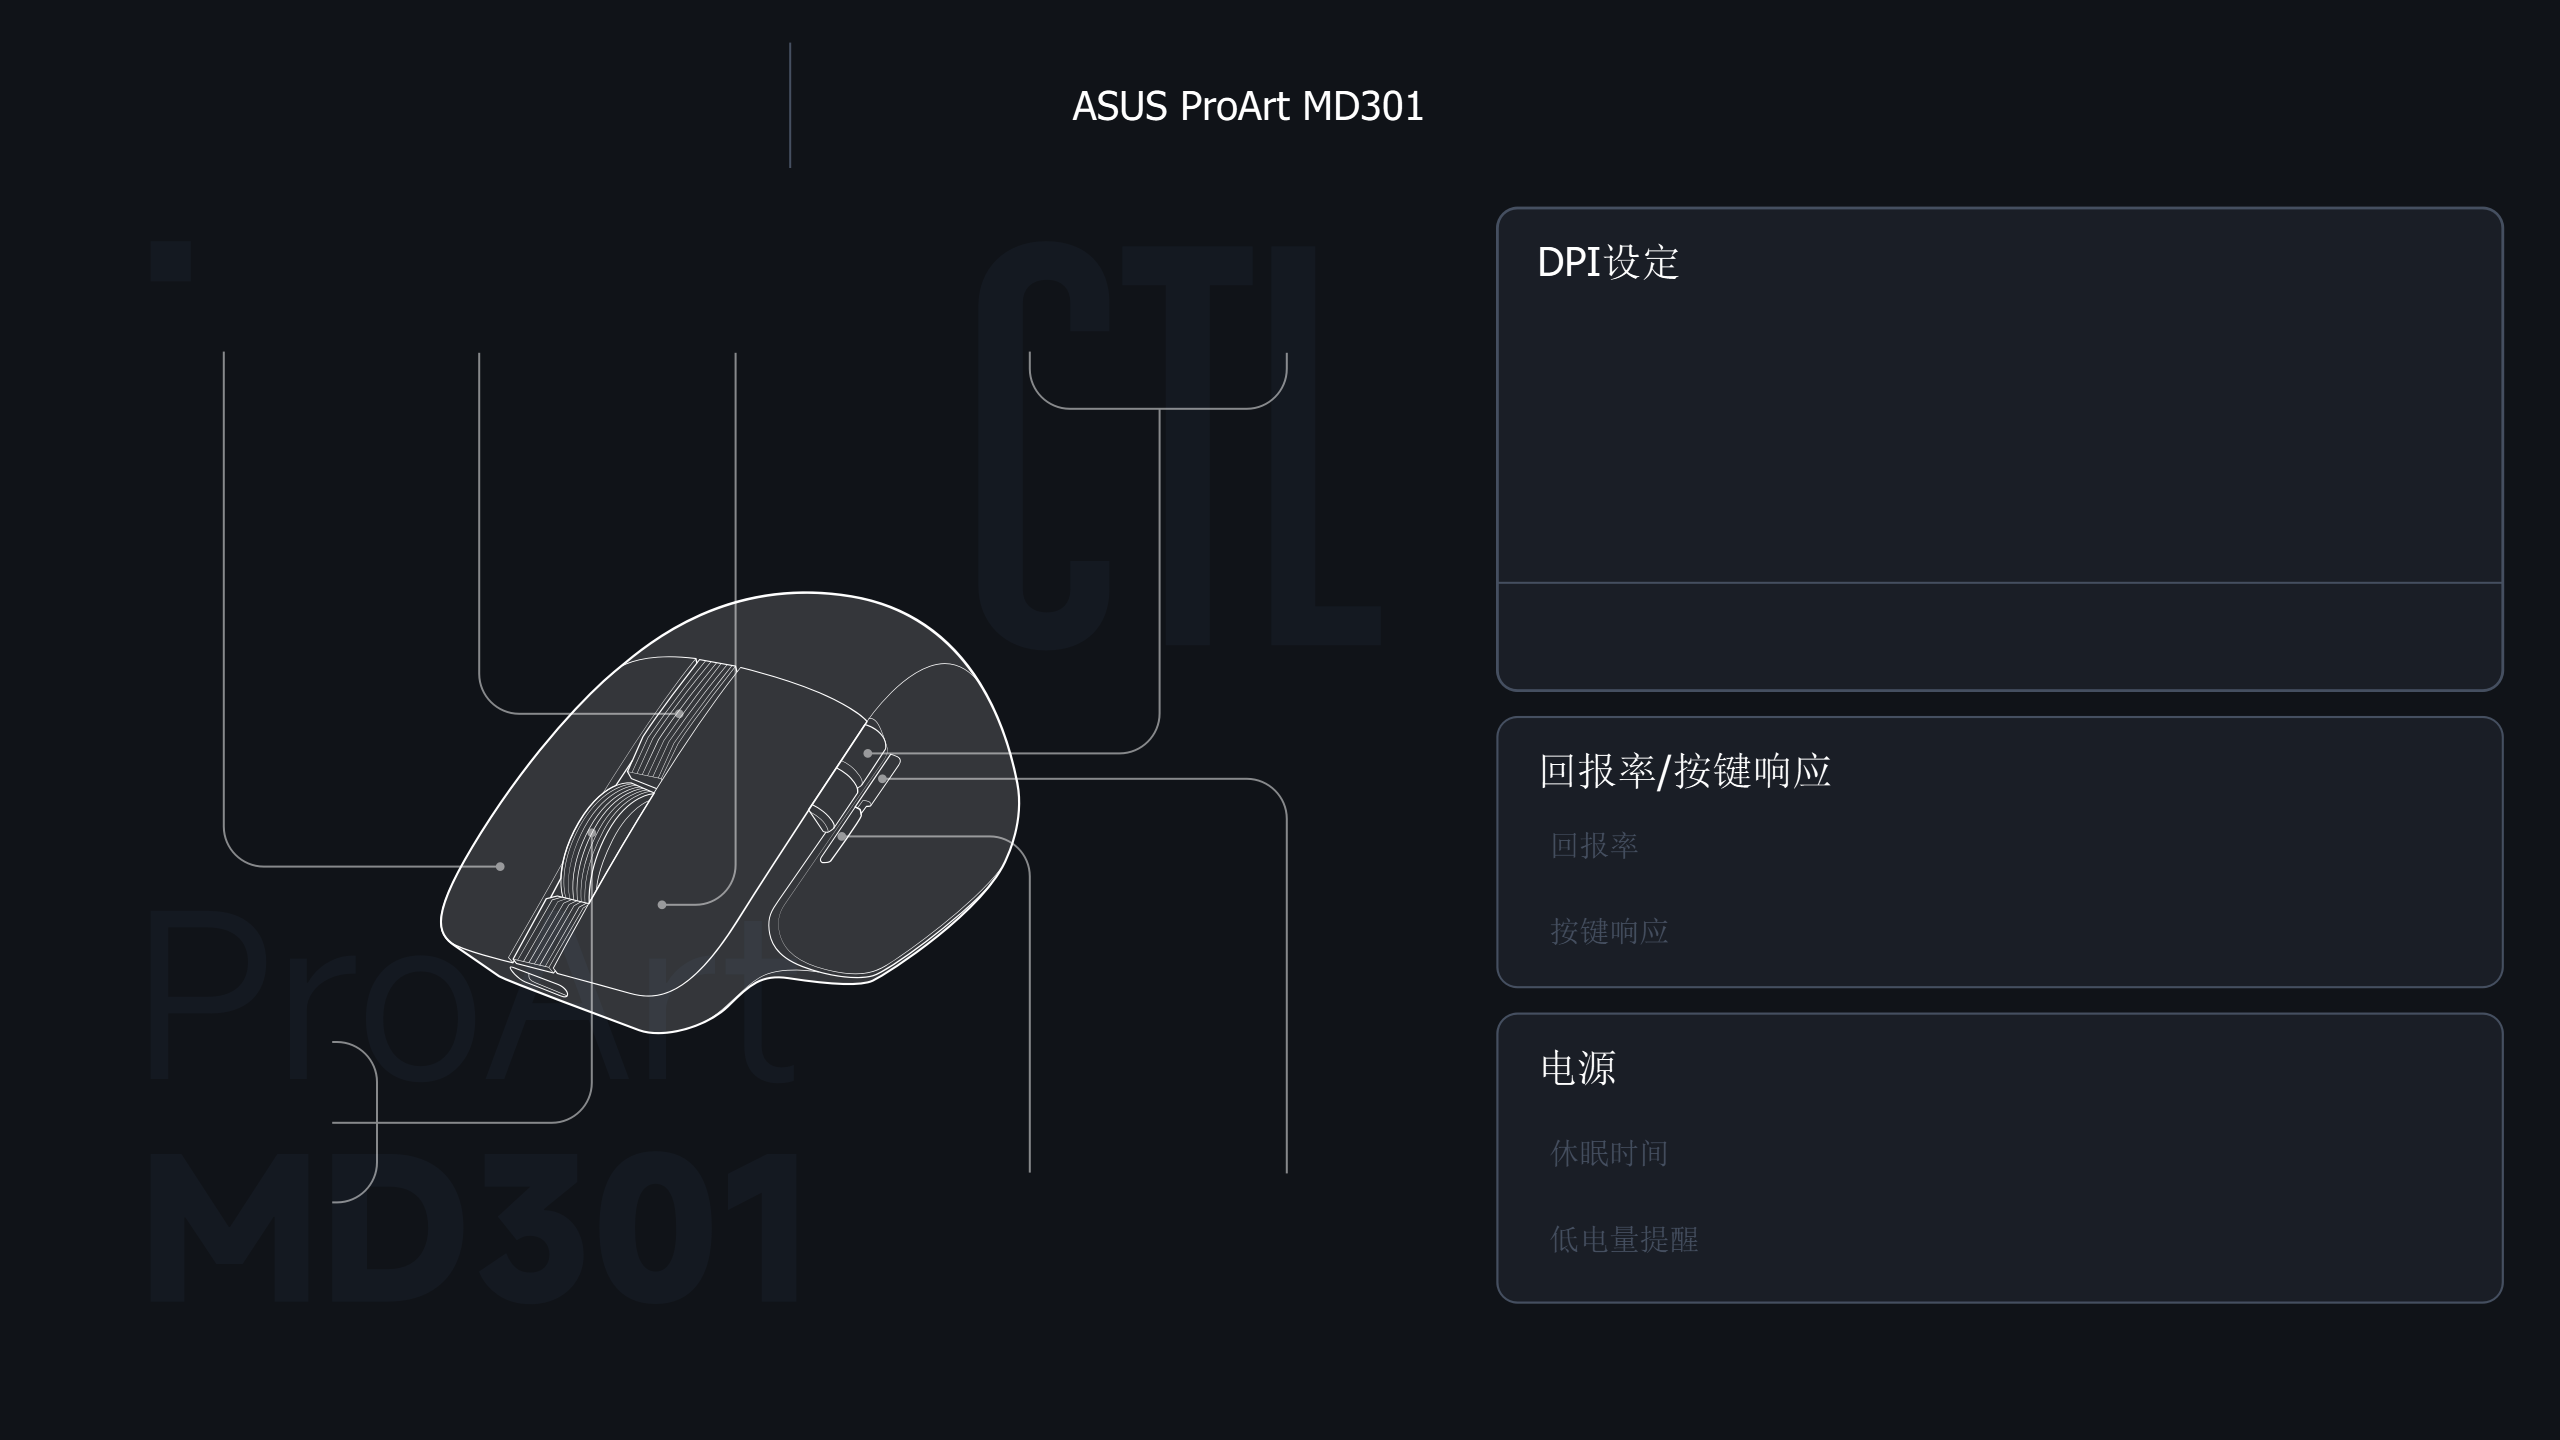
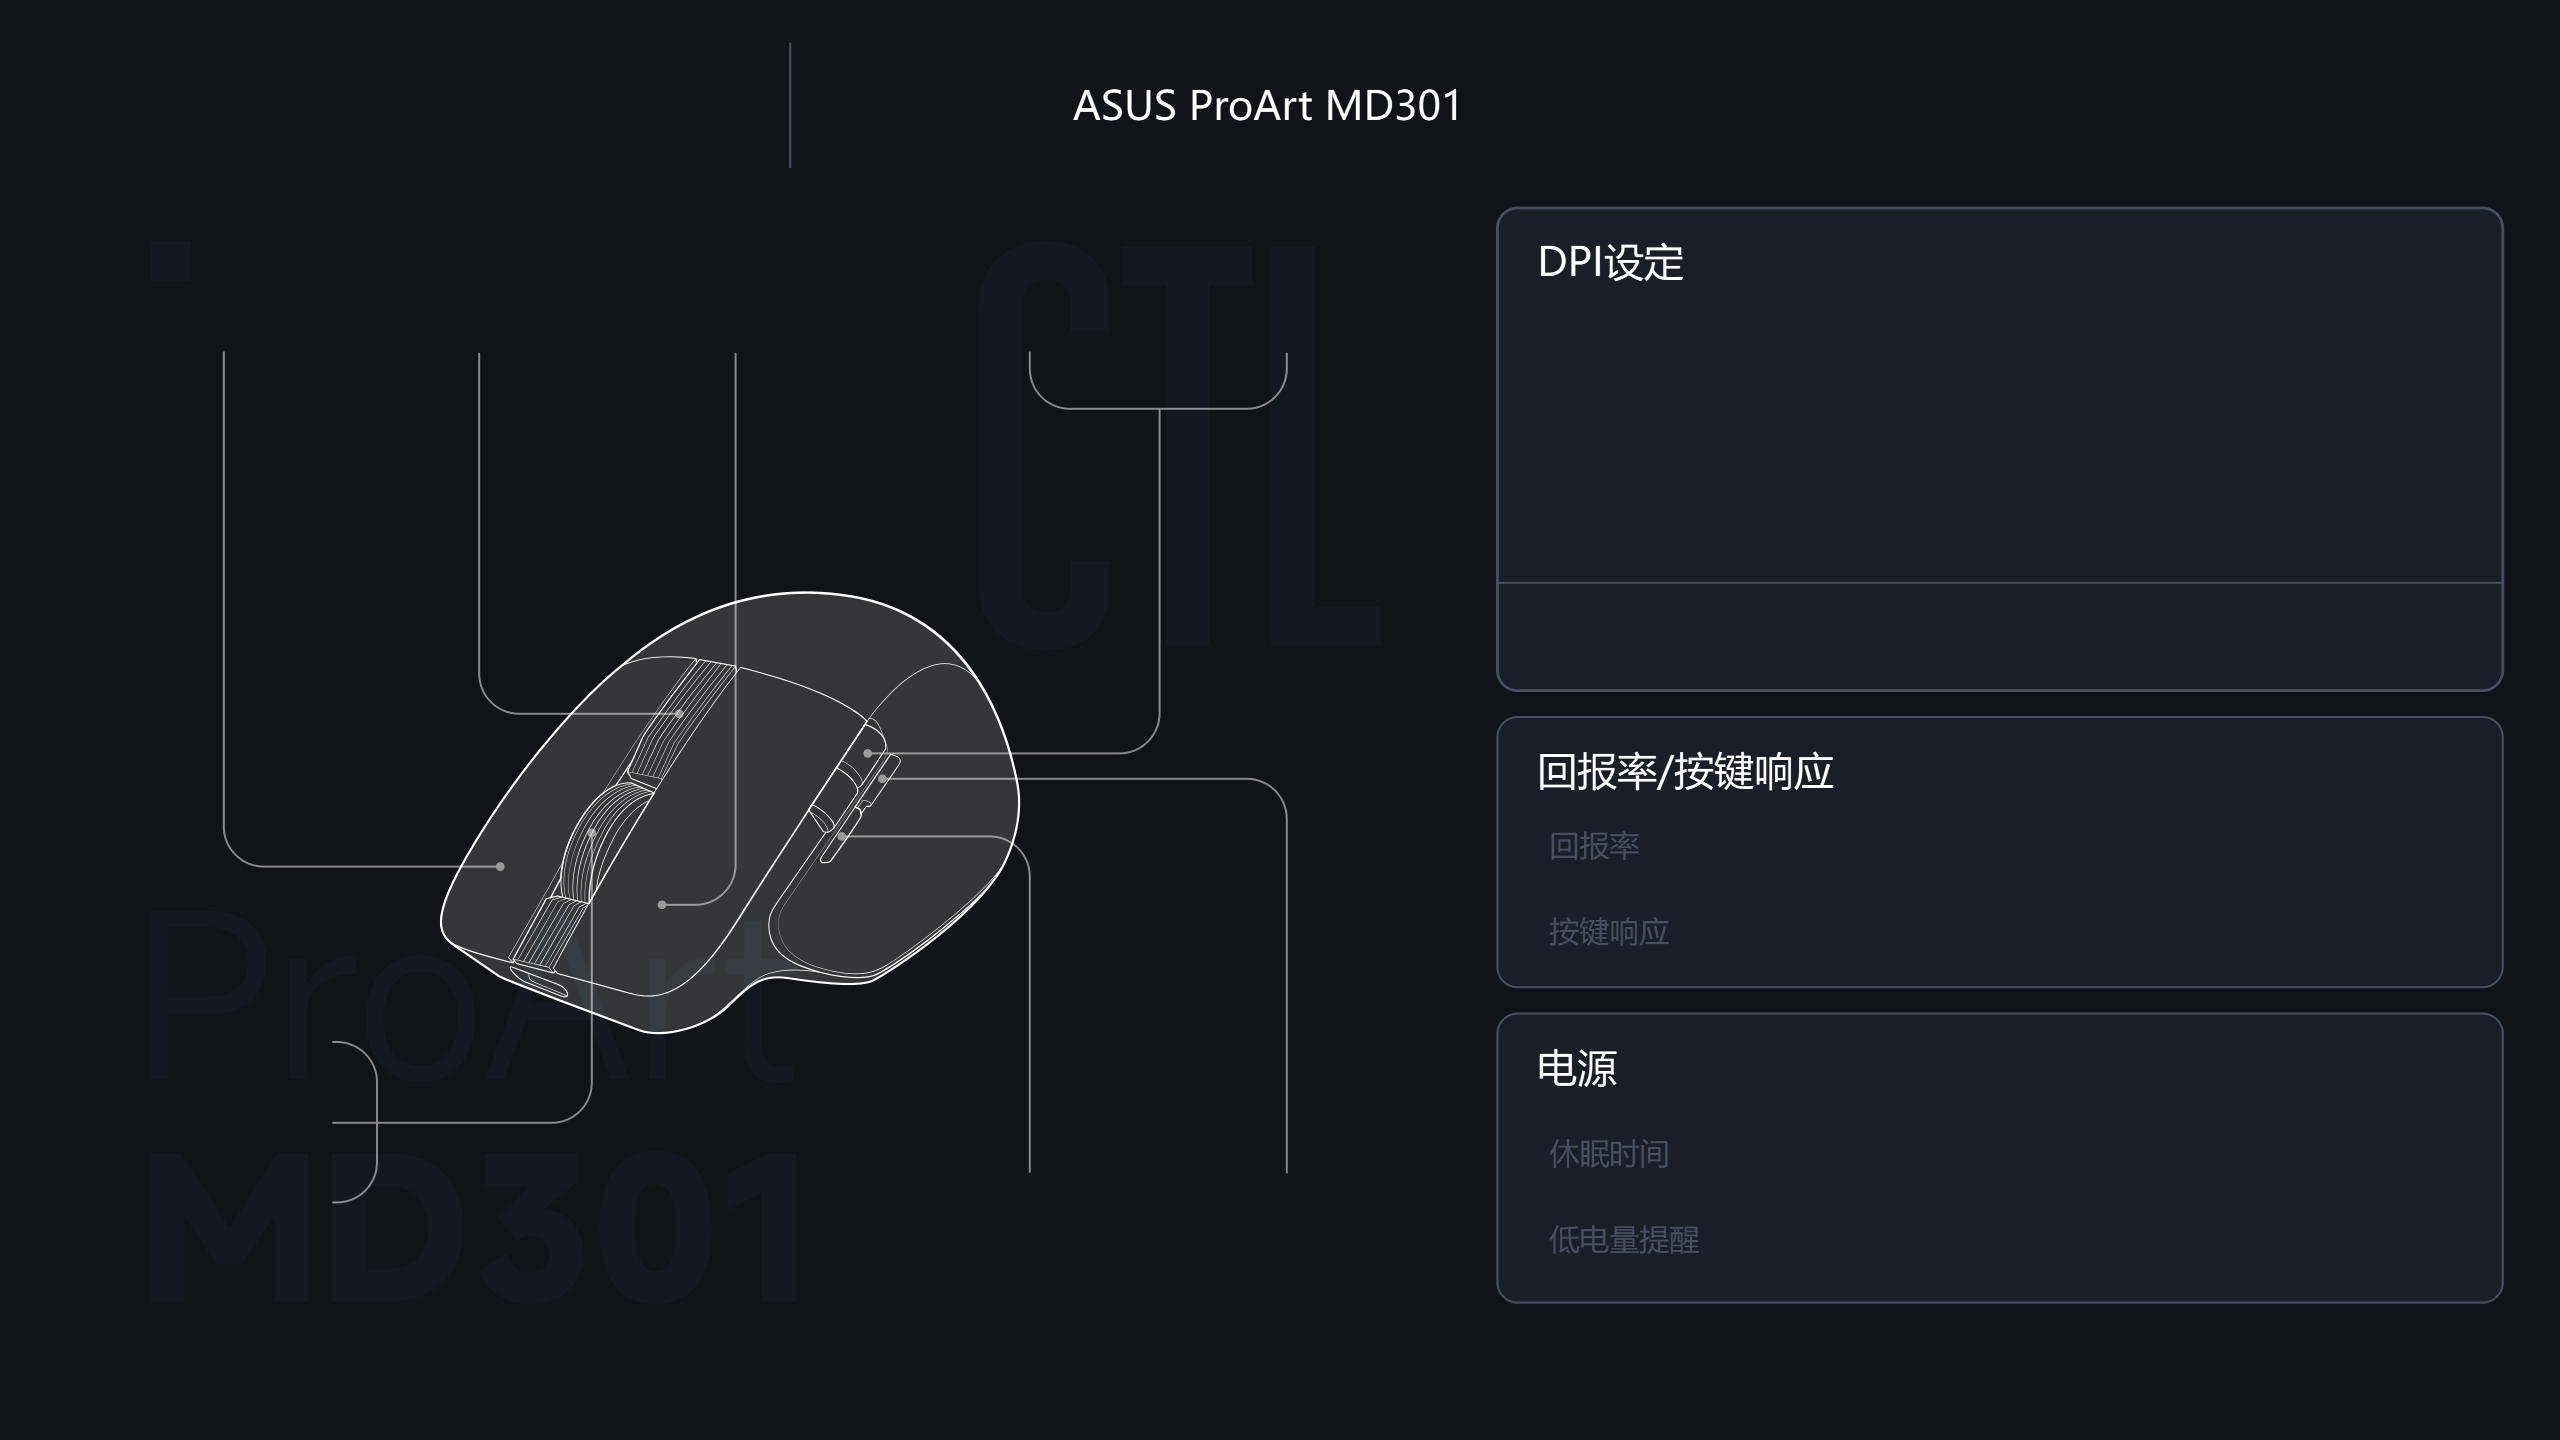
按反馈修三处：左右键槽位互换、背景层字体统一、说明字段归位
1. 左右键槽位互换（qml/proto.js）：设计稿插画里最左那条引线接的是鼠标右键，
   所以最左胶囊改为编辑「右键」槽位（313.7），第三枚改为「左键」槽位（57.8）。
2. 背景层字体统一（assets/ui-bg.svg + scripts/extract_proto.py）：设计稿的字体名是
   Illustrator 内部名 'SourceHanSansCN-Medium-GBpc-EUC-H'，本机没有 → Qt 回退成宋体，
   于是背景层文字是衬线、QML 文字是黑体，两种字体混着。统一成 Theme.font 的
   'Microsoft YaHei UI'，并在生成脚本里固化这条改写，重新渲染 ui-bg.png。
3. 说明字段归位（qml/Main.qml）：'DPI挡位范围 100-8000' 的设计稿基线是 y=322.6、
   x=774.7 —— 在卡片分隔线（291.4）下方、与「应用DPI」同一行；之前按 (787,273) 画到了
   分隔线上方。顺带把另外两处按基线定位的文字改成实测 ascent(15px)=15.23 的换算：
   电量百分比 → (1167.6, 43.1)（左对齐）、低电量阈值数值 → (1199.9, 609.5)。

diff --git a/gui-qt/qml/Main.qml b/gui-qt/qml/Main.qml
@@ -260,9 +260,8 @@ Window {
     }
     // 电量百分比 + 电池图标
     Text {
-        x: 1150
-        y: 46
-        width: 38
+        x: 1167.6
+        y: 43.1
         text: (st().power && st().power.battery !== undefined) ? st().power.battery + "%" : "—"
         color: Theme.text
         font.family: Theme.font
@@ -407,8 +406,8 @@ Window {
         }
     }
     Text {
-        x: 787
-        y: 273
+        x: 774.7
+        y: 307.4
         text: "DPI挡位范围 " + (caps().dpi_min !== undefined ? caps().dpi_min : 100) + "-" + (caps().dpi_max !== undefined ? caps().dpi_max : 8000)
         color: Theme.muted
         font.family: Theme.font
@@ -501,8 +500,8 @@ Window {
         }
     }
     Text {
-        x: 1190
-        y: 612
+        x: 1199.9
+        y: 609.5
         text: (win.lowDraft >= 0 ? win.lowDraft : 0) + "%"
         color: Theme.muted
         font.family: Theme.font

diff --git a/gui-qt/qml/proto.js b/gui-qt/qml/proto.js
@@ -51,7 +51,7 @@ var L = {
   ]
  },
  "combos": {
-  "左键": [
+  "右键": [
    57.8,
    144.7,
    108.3,
@@ -69,7 +69,7 @@ var L = {
    108.3,
    31.1
   ],
-  "右键": [
+  "左键": [
    313.7,
    144.7,
    108.3,

diff --git a/gui-qt/scripts/extract_proto.py b/gui-qt/scripts/extract_proto.py
@@ -185,6 +185,11 @@ def strip_for_background(src: str, dst: str) -> tuple[int, list[str]]:
                     el.remove(ch); removed += 1
 
     walk(root, (1, 0, 0, 1, 0, 0))
+    # 设计稿的字体名是 Illustrator 的内部名（SourceHanSansCN-Medium-GBpc-EUC-H），
+    # 本机没有就会被 Qt 回退成宋体（衬线），整层文字和 QML 对不上 → 统一成 Theme.font
+    txt = ET.tostring(root, encoding="unicode")
+    txt = re.sub(r"font-family:'[^']*SourceHan[^']*'", "font-family:'Microsoft YaHei UI'", txt)
+    root = ET.fromstring(txt)
     for el in root.iter():               # 设计稿把标题写成了 AUSU，顺手修正
         if _tag(el) == "text" and el.text and "AUSU" in el.text:
             el.text = el.text.replace("AUSU", "ASUS")
